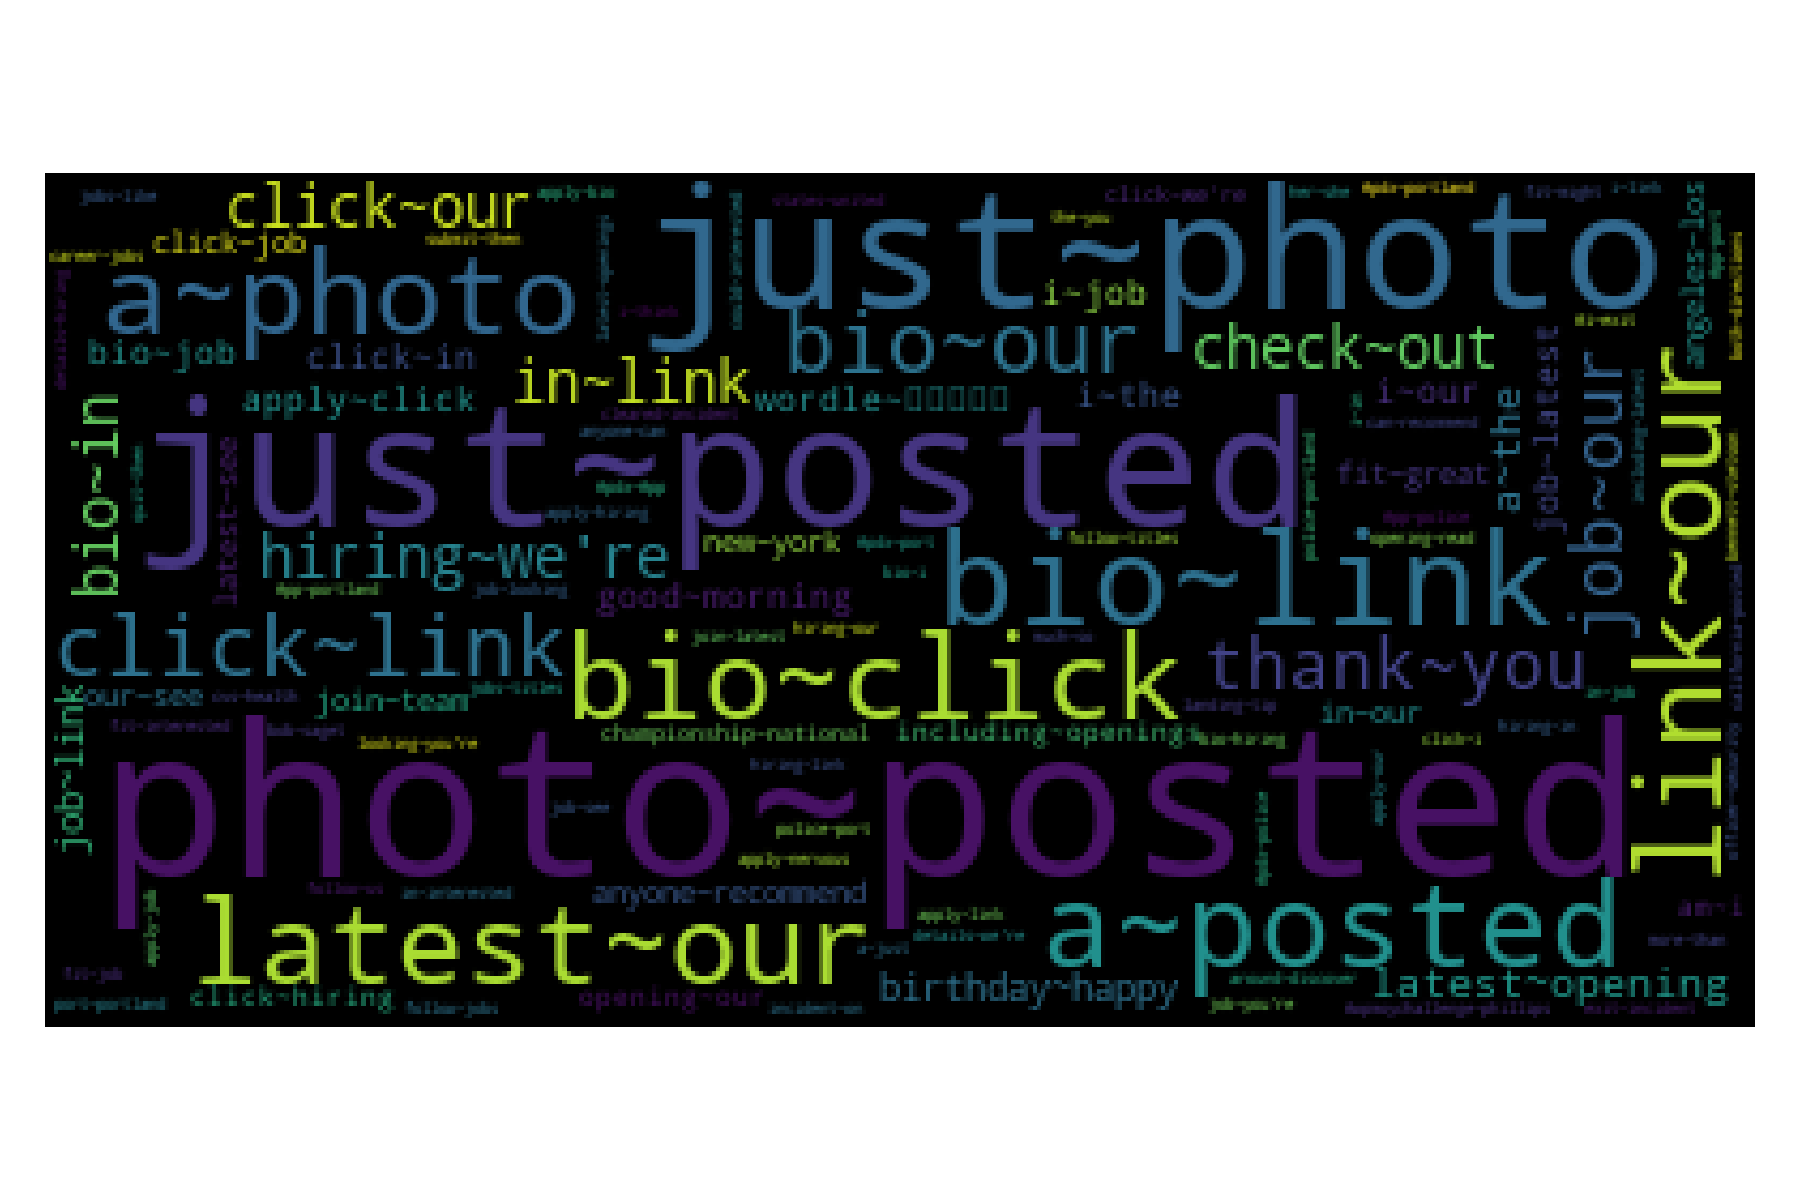
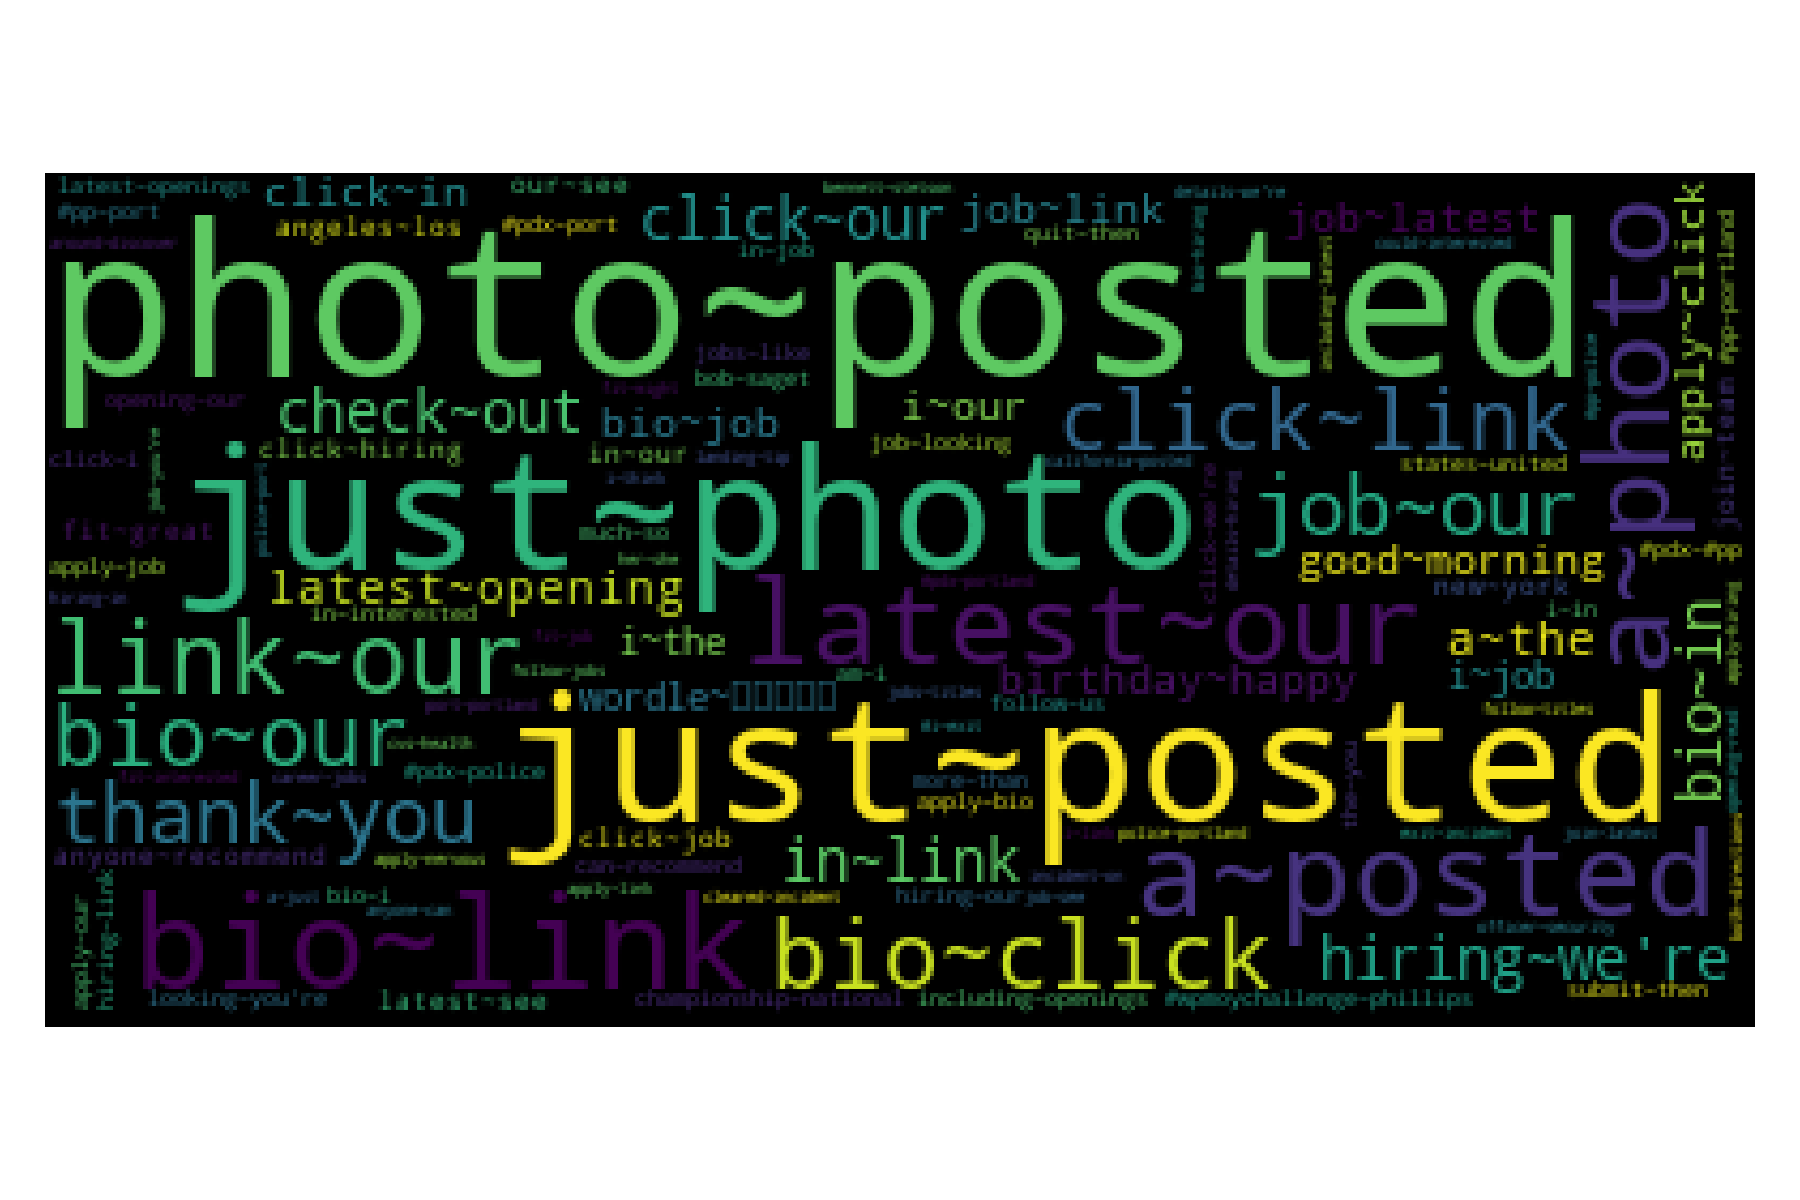
likelihood

diff --git a/code/03Collocations.py b/code/03Collocations.py
@@ -1,7 +1,7 @@
 from text_models import Vocabulary
 from collections import Counter
 import numpy as np
-from scipy.stats import norm
+from scipy.stats import norm, chi2
 from wordcloud import WordCloud as WC
 from matplotlib import pylab as plt
 # %pylab inline
@@ -126,7 +126,7 @@ plt.axis('off')
 plt.tight_layout()
 plt.savefig('wordcloud_us2.png', dpi=300)
 
-# Hypothesis testing
+## The Wald Test
 
 N = len(Z)
 se = np.sqrt(W * (1 - W) / N)
@@ -155,7 +155,7 @@ plt.tight_layout()
 plt.savefig('wordcloud_us3.png', dpi=300)
 
 
-## Ratio
+## Likelihood ratios
 count = dict()
 for k, v in bigrams.items():
     for x in k.split('~'):
@@ -180,14 +180,15 @@ def ratio(k):
     p = c2 / N
     p1 = c12 / c1
     p2 = (c2 - c12) / (N - c1)
-    f1 = L(c12, c1, p) + L(c2 - c12, N - c1, p)
+    f1 = L(c12, c1, p) +  L(c2 - c12, N - c1, p)
     f2 = L(c12, c1, p1) + L(c2 - c12, N - c1, p2)
     return -2 * (f1 - f2)
 
 r = {k: ratio(k) for k, v in bigrams.items()}
+c = chi2.ppf((1 - alpha), 1)
+r = {k: v for k, v in r.items() if np.isfinite(v) and v > c}
 
-_ = {k: v for k, v in r.items() if np.isfinite(v)}
-wc = WC().generate_from_frequencies(_)
+wc = WC().generate_from_frequencies(r)
 plt.imshow(wc)
 plt.axis('off')
 plt.tight_layout()

diff --git a/topics/03Collocations.md b/topics/03Collocations.md
@@ -383,7 +383,6 @@ plt.axis('off')
 The following figure presents the word cloud of the difference. It can be observed that the main difference between the important bigrams of the former figure and this one is that the former presented mostly stopwords, and this one has other words. 
 
 {: #fig:wordcloud-differences}
-
 ![Wordcloud](/NLP-Course/assets/images/wordcloud_us2.png)
 
 # Hypothesis Testing
@@ -462,6 +461,71 @@ As can be seen, the most important bigrams are similar to the ones observed on t
 ## Likelihood ratios
 {: #sec:likelihood-ratios }
 
+The Wald test assumes normality on the estimation, which is a fair assumption when the number of counts is high; however, for the case of bigrams, as we have seen on the [Vocabulary Laws](/topics/02Vocabulary), the majority of words appear infrequent; thus most of the bigrams are also infrequent. 
 
+The likelihood ratios are more appropriate for this problem; the idea is to model two hypotheses that encode the behavior of collocations. On the one hand, the first hypothesis is $$\mathcal H_1: \mathbb P(\mathcal C=w_2 \mid \mathcal R=w_1) = p = \mathbb P(\mathcal C=w_2 \mid \mathcal R=\neg w_1) $$ which corresponds to the independence assumption. On the other hand, the second hypothesis is $$\mathcal H_2: \mathbb P(\mathcal C=w_2 \mid \mathcal R=w_1) = p_1 \neq p2 = \mathbb P(\mathcal C=w_2 \mid \mathcal R=\neg w_1).$$ Then the log of the likelihood ratio $\lambda$ is defined as follows:
+
+$$\log \lambda = \log \frac{\mathcal L(\mathcal H_1)}{\mathcal L(\mathcal H_2)},$$
+
+where $$\mathcal L(\mathcal H_1)$$ is the likelihood of observing the counts for words $$w_1$$ and $$w_2$$ and the bigram $$(w_1, w_2)$$ that corresponds to the hypothesis $$\mathcal H_1.$$ Equivalent, $$\mathcal L(\mathcal H_2)$$ corresponds to the likelihood of observing the counts for the second hypothesis.
+
+Using $$c_1$$, $$c_2$$, and $$c_{12}$$ for the count of the words $w_1$ and $w_2$ and the bigram $(w_1, w_2)$ the likelihood of the hypothesis are $$\mathcal L(\mathcal H_1)=L(c_{12}, c_1, p)L(c_2-c_{12}, N-c_1, p)$$ and $$\mathcal L(\mathcal H_2)=L(c_{12}, c_1, p_1)L(c_2-c_{12}, N-c_1, p_2),$$ where $$L(k, n, x) = x^k(1-x)^{n-k}.$$
+
+The first step is to store the counts $$c_1$$ and $$c_2$$ on the variable `count`.
+
+```python
+count = dict()
+for k, v in bigrams.items():
+    for x in k.split('~'):
+        try:
+            count[x] += v
+        except KeyError:
+            count[x] = v 
+```
+
+The function $$L$$ and the ratio can be computed as follows.
+
+```python
+N = sum(list(count.values()))
+
+def L(k, n, x):
+    f1 = k * np.log(x)
+    f2 = (n - k) * np.log(1 - x)
+    return f1 + f2
+
+def ratio(k):
+    a, b = k.split('~')
+    c12 = bigrams[k]
+    c1 = count[a]
+    c2 = count[b]
+    p = c2 / N
+    p1 = c12 / c1
+    p2 = (c2 - c12) / (N - c1)
+    f1 = L(c12, c1, p) +  L(c2 - c12, N - c1, p)
+    f2 = L(c12, c1, p1) + L(c2 - c12, N - c1, p2)
+    return -2 * (f1 - f2)
+```
+
+The last step is to obtain the statistic for each pair, and select only those bigrams where the null hypothesis (in this case $$\mathcal H_1$$) can be rejected. 
+
+```python
+r = {k: ratio(k) for k, v in bigrams.items()}
+c = chi2.ppf((1 - alpha), 1)
+r = {k: v for k, v in r.items() if np.isfinite(v) and v > c}
+```
+
+The following figure presents the word cloud obtained using the Likelihood method, and please take a minute to compare the three different word clouds produced so far. 
 
 ![Word Cloud using Wald Test](/NLP-Course/assets/images/wordcloud_us4.png)
+<details markdown="block">
+  <summary>
+    Code of the Likelihood ratios word cloud
+  </summary>
+
+```python
+wc = WC().generate_from_frequencies(r)
+plt.imshow(wc)
+plt.axis('off')
+plt.tight_layout()
+```
+</details>
